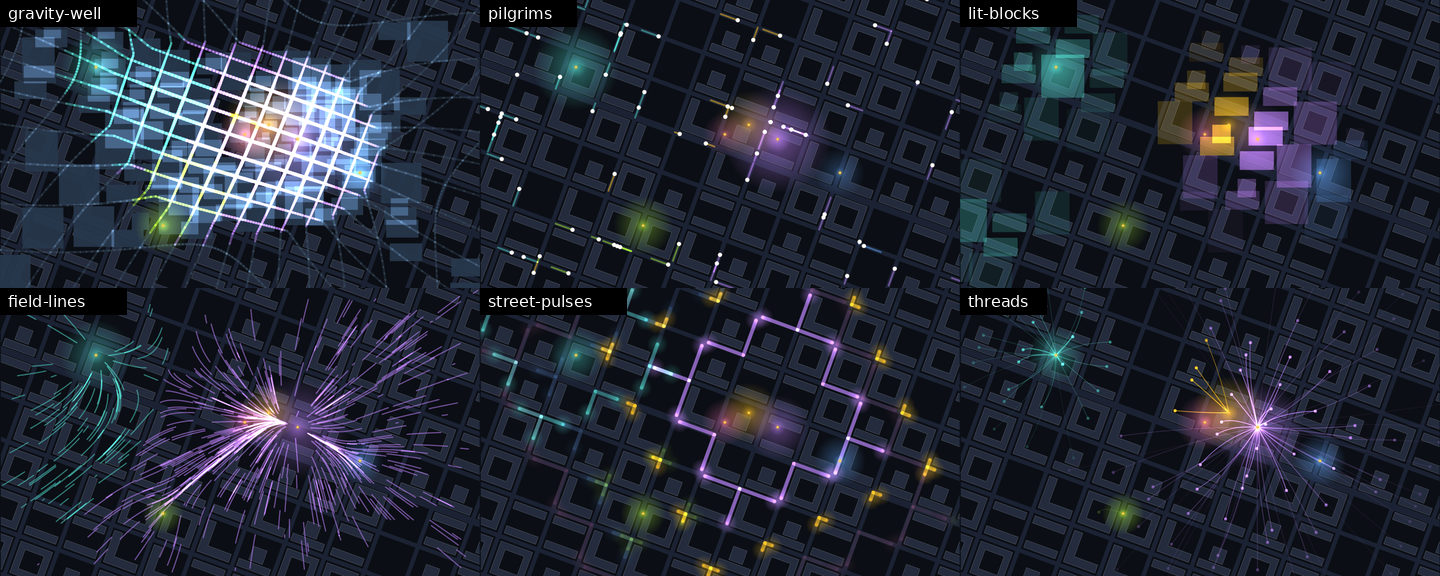
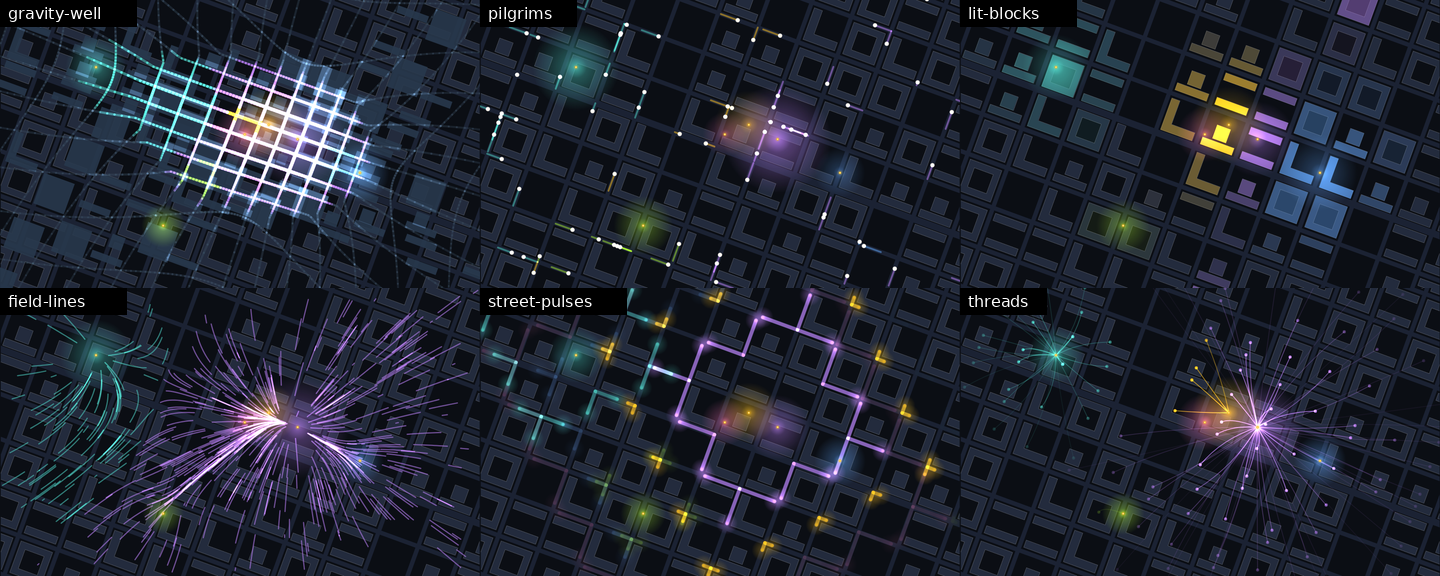
Place motions: lit blocks and the gravity well use real building footprints
Lit blocks lit bounding boxes; now each building's own footprint lights up, and the
gravity well moves and shrinks the footprints instead of boxes. Sanjay's review of #163.

Claude-Session: https://claude.ai/code/session_0138i3JzUv4eY4QamSqY2quA

diff --git a/packages/sdk/src/place-motions.ts b/packages/sdk/src/place-motions.ts
@@ -166,6 +166,21 @@ class Painter {
     this.pen.lineTo(x1, y1);
     this.pen.stroke();
   }
+  /** Fills a footprint (rings in du), each point moved by `move` first. */
+  footprint(rings: [number, number][][], fill: string, move?: (x: number, y: number) => [number, number]): void {
+    const pen = this.pen;
+    pen.beginPath();
+    for (const ring of rings) {
+      ring.forEach(([x, y], i) => {
+        const [px, py] = move ? this.x(...move(x, y)) : this.x(x, y);
+        if (i === 0) pen.moveTo(px, py);
+        else pen.lineTo(px, py);
+      });
+      pen.closePath();
+    }
+    pen.fillStyle = fill;
+    pen.fill();
+  }
   /** Draws an off-screen raster over the whole table. */
   raster(canvas: Canvas, W: number, H: number): void {
     const [x0, y0] = this.x(0, 0);
@@ -187,6 +202,8 @@ interface Scene {
   /** Street distance (du) from each place to every node. */
   pdist: Float64Array[];
   buildings: [number, number, number, number][];
+  /** Each building's footprint rings, in du, matching `buildings`. */
+  footprints: [number, number][][][];
   targets: { x: number; y: number }[];
 }
 
@@ -218,6 +235,7 @@ function sceneOf(data: PlaceData, u: number): Scene {
     pdist,
     buildings: data.buildings.map((b) => [b.point[0] / u, b.point[1] / u, b.w / u, b.h / u]),
     targets: data.targets.map(([x, y]) => ({ x: x / u, y: y / u })),
+    footprints: data.buildings.map((b) => b.outline.map((ring) => ring.map(([x, y]) => [x / u, y / u] as [number, number]))),
   };
   byU.set(u, scene);
   return scene;
@@ -929,14 +947,13 @@ M.push({
       draw: (view, time, alpha) =>
         frame(view, time, alpha, (p, t) => {
           // Blocks as faint footprints over the base map, shrinking as they are pulled in.
-          p.pen.fillStyle = css(ground, 0.9);
-          for (const [x, y, w, h] of scene.buildings) {
+          scene.buildings.forEach(([x, y], n) => {
             const [a, b] = warp(x, y, t);
             const { sum } = pullAt(scene, mass, x, y, t);
             const s = 1 - Math.min(k.shrink!, sum * 0.03);
-            const [px, py] = p.x(a - (w * s) / 2, b - (h * s) / 2);
-            p.pen.fillRect(px, py, p.l(w * s), p.l(h * s));
-          }
+            // The footprint moves with its centre and shrinks around it.
+            p.footprint(scene.footprints[n]!, css(ground, 0.9), (vx, vy) => [a + (vx - x) * s, b + (vy - y) * s]);
+          });
           for (const [a0, b0] of scene.edges) {
             const A = scene.nodes[a0]!, B = scene.nodes[b0]!;
             let prev = warp(A.x, A.y, t);
@@ -1023,17 +1040,16 @@ M.push({
     return {
       draw: (view, time, alpha) =>
         frame(view, time, alpha, (p, t) => {
-          for (const [x, y, w, h] of scene.buildings) {
+          scene.buildings.forEach(([x, y], n) => {
             const { best, bv } = pullAt(scene, mass, x, y, t, k.reach! * k.reach!);
             const pl = scene.places[best]!;
             const d = Math.hypot(x - pl.x, y - pl.y);
             const wave = k.wave! > 0 ? Math.exp(-(((d - ((t * 260 * k.wave! + best * 300) % 900)) / 60) ** 2)) * mass(best, t) : 0;
             const a = clamp((bv - 1.2) / 7, 0, 0.8) * k.base! + wave * 0.8;
-            if (a < 0.04) continue;
-            p.pen.fillStyle = css(pl.c, Math.min(1, a));
-            const [px, py] = p.x(x - w / 2, y - h / 2);
-            p.pen.fillRect(px, py, p.l(w), p.l(h));
-          }
+            if (a < 0.04) return;
+            // The building's own footprint lights up, not a box around it.
+            p.footprint(scene.footprints[n]!, css(pl.c, Math.min(1, a)));
+          });
           scene.places.forEach((pl, i) => p.glow(pl.x, pl.y, 40 + 40 * mass(i, t), pl.c, 0.6));
         }),
     };

diff --git a/packages/sdk/src/places.ts b/packages/sdk/src/places.ts
@@ -45,8 +45,8 @@ export interface PlaceData {
   /** Points a motion reaches out to (spokes, density): a targets dataset, or none. */
   targets: Point[];
   streets: StreetNetwork | null;
-  /** Building footprints as boxes in table metres. */
-  buildings: { point: Point; w: number; h: number }[];
+  /** Building footprints in table metres: the outer ring of each polygon, plus the bounding box. */
+  buildings: { point: Point; w: number; h: number; outline: Point[][] }[];
   /** The table, in metres. */
   frame: { width: number; height: number };
   /** Problems an author should see (a flow naming a place that is not there, a weight that is not a number). */
@@ -231,7 +231,7 @@ export function placeData(
   const buildings = (extras.buildings?.areas ?? []).map((area) => {
     let [minX, minY, maxX, maxY] = [Infinity, Infinity, -Infinity, -Infinity];
     for (const polygon of area.polygons) for (const [x, y] of polygon[0] ?? []) [minX, minY, maxX, maxY] = [Math.min(minX, x), Math.min(minY, y), Math.max(maxX, x), Math.max(maxY, y)];
-    return { point: area.centre, w: maxX - minX, h: maxY - minY };
+    return { point: area.centre, w: maxX - minX, h: maxY - minY, outline: area.polygons.map((polygon) => [...(polygon[0] ?? [])]).filter((ring) => ring.length > 2) };
   }).filter((b) => Number.isFinite(b.w));
   const targets = (extras.targets?.spots ?? []).map((s) => s.point);
   return { places, activity, hasActivity, flows, links, targets, streets, buildings, frame, problems };
